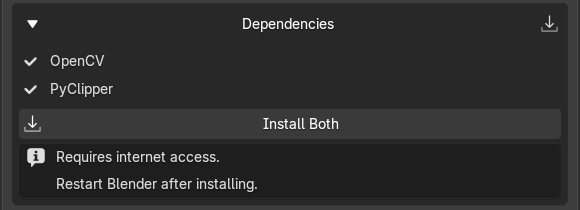
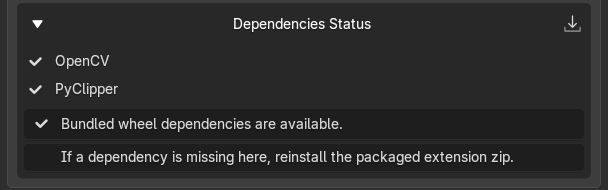
Update dependency documentation and images

diff --git a/docs/user-guide/dependencies.md b/docs/user-guide/dependencies.md
@@ -1,28 +1,18 @@
-## Dependencies
+
+## Dependencies Status In The Panel
+
+REVO Opacity Cutout already includes its required Python wheels:
+
+- OpenCV (`opencv-python`)
+- PyClipper (`pyclipper`)
+- numpy
+
+The **Dependencies Status** section in the addon UI is informational only.
+
+It shows whether Blender can currently import the bundled packages.
 
 <p align="center">
 	<a class="glightbox" href="../../assets/img/UI_OpacityCutout_Step_7_2.png" data-type="image" data-width="auto" data-height="auto" data-desc-position="bottom">
 		<img src="../../assets/img/UI_OpacityCutout_Step_7_2.png" alt="Opacity cutout sample" width="580">
-	</a>
-</p>
-
-The addon requires two Python packages that are not bundled with Blender:
-
-- **OpenCV** (`opencv-python`) — used for mask processing, morphological cleanup, and contour extraction.
-- **PyClipper** (`pyclipper`) — used for polygon union and inward offset operations.
-
-After installation, open the **N-Panel → REV OpacityCutout → Dependencies** section and click **Install Both**. Blender will download and install them via pip. An internet connection is required. Restart Blender once installation completes.
-
-If the install fails, both packages can be installed manually by running the following in a terminal pointed at Blender's Python:
-
-```
-python -m pip install opencv-python pyclipper
-```
-!!! tip "Tip"
-    During installation, allow the process to complete, as it may take a moment. When the installation finishes, Blender will show a notification in the Status Bar at the bottom of the window. If you happen to miss it, you can also check the console for the same confirmation message, including the notice that Blender needs to be restarted.
-
-<p align="center">
-	<a class="glightbox" href="../../assets/img/dependencies_notinstalled.png" data-type="image" data-width="auto" data-height="auto" data-desc-position="bottom">
-		<img src="../../assets/img/dependencies_notinstalled.png" alt="Opacity cutout sample" width="580">
 	</a>
 </p>
